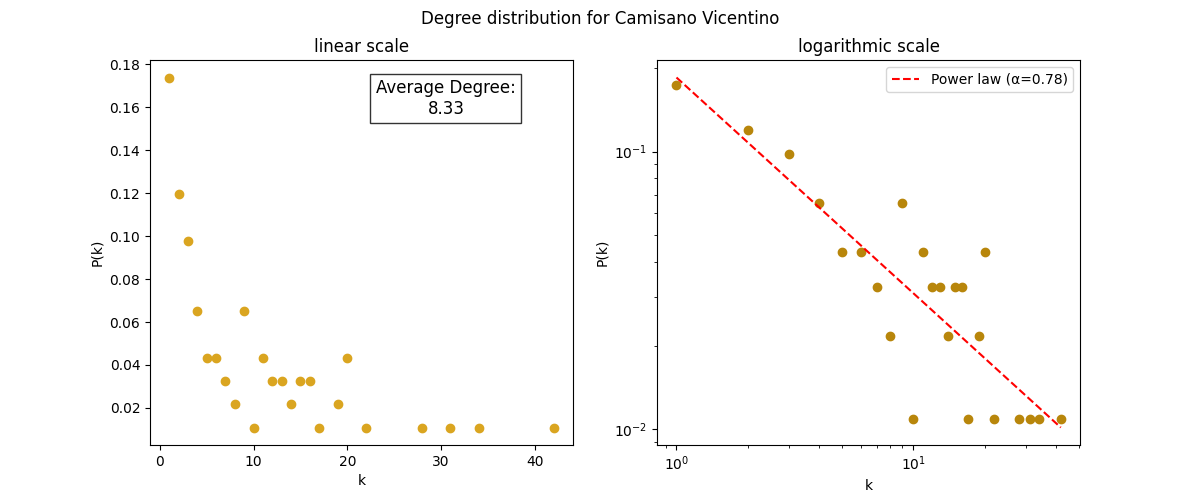
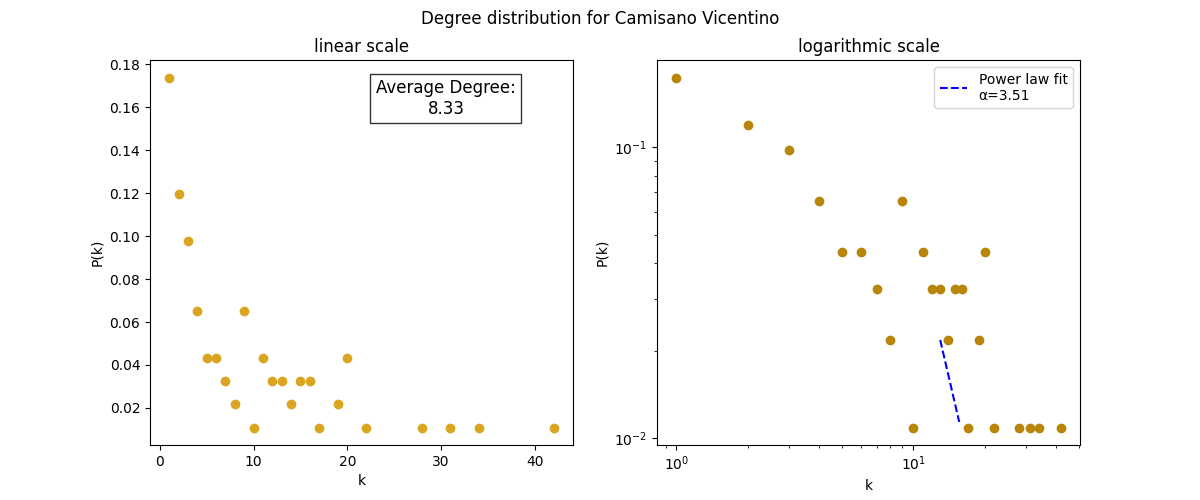
graphs and powerlaw attempt

diff --git a/CSV Data Files/generate_graphs.py b/CSV Data Files/generate_graphs.py
@@ -1,6 +1,7 @@
 import matplotlib.pyplot as plt
 import pandas as pd
 import numpy as np
+import powerlaw
 from scipy.stats import linregress
 from os import listdir
 
@@ -138,26 +139,28 @@ def generate_degree_distribution_graphs(df, locality):
 
     degrees = list(degree_distribution.keys())
     deg_counts = list(degree_distribution.values())
-    deg_counts = [x/n_nodes for x in deg_counts]
+    deg_probabilities = [x/n_nodes for x in deg_counts]
+    degrees_repeated = [k for k, v in degree_distribution.items() for _ in range(int(v))]
 
     degrees = np.array(degrees)
-    deg_counts = np.array(deg_counts)
+    deg_probabilities = np.array(deg_probabilities)
 
-    mask = (degrees > 0) & (deg_counts > 0)
-    log_k = np.log(degrees[mask])
-    log_pk = np.log(deg_counts[mask])
+    fit = powerlaw.Fit(degrees_repeated, discrete=True)
 
-    slope, intercept, r_value, p_value, std_err = linregress(log_k, log_pk)
-    alpha = -slope
+    x_fit = np.linspace(fit.xmin, max(degrees), 100)
+    y_fit = x_fit ** (-fit.alpha)
+    y_fit = y_fit / y_fit[0] * deg_probabilities[degrees >= fit.xmin][0]  # scale roughly to match
 
-    x_fit = np.linspace(min(degrees[mask]), max(degrees[mask]), 100)
-    y_fit = np.exp(intercept) * x_fit**slope
+    y_min = deg_probabilities.min()
+    mask = y_fit >= y_min
+    x_fit = x_fit[mask]
+    y_fit = y_fit[mask]
 
 
     fig,axes = plt.subplots(1,2,figsize=(12,5))
-    axes[0].plot(degrees, deg_counts, marker="o", linestyle="", color="goldenrod")
-    axes[1].plot(degrees, deg_counts, marker="o", linestyle="", color="darkgoldenrod")
-    axes[1].plot(x_fit, y_fit, color="red", linestyle="--", label=f"Power law (α={alpha:.2f})")
+    axes[0].plot(degrees, deg_probabilities, marker="o", linestyle="", color="goldenrod")
+    axes[1].plot(degrees, deg_probabilities, marker="o", linestyle="", color="darkgoldenrod")
+    axes[1].plot(x_fit, y_fit, linestyle='--', color='b', label=f'Power law fit\nα={fit.power_law.alpha:,.02f}'.replace(","," "))
     axes[1].legend()
 
 
@@ -190,25 +193,29 @@ def generate_degree_distribution_graphs(df, locality):
 
     interactions = list(weighted_degree_distribution.keys())
     interaction_counts = list(weighted_degree_distribution.values())
-    interaction_counts = [x/n_nodes for x in interaction_counts]
+    interaction_probabilities = [x/n_nodes for x in interaction_counts]
+    interactions_repeated = [k for k, v in weighted_degree_distribution.items() for _ in range(int(v))]
 
     interactions = np.array(interactions)
-    interaction_counts = np.array(interaction_counts)
+    interaction_probabilities = np.array(interaction_probabilities)
 
-    mask = (interactions > 0) & (interaction_counts > 0)
-    log_k = np.log(interactions[mask])
-    log_pk = np.log(interaction_counts[mask])
+    fit = powerlaw.Fit(interactions_repeated, discrete=True)
 
-    slope, intercept, r_value, p_value, std_err = linregress(log_k, log_pk)
-    alpha = -slope
+    x_fit = np.linspace(fit.xmin, max(interactions), 100)
+    y_fit = x_fit ** (-fit.alpha)
+    y_fit = y_fit / y_fit[0] * interaction_probabilities[interactions >= fit.xmin][0]  # scale roughly to match
 
-    x_fit = np.linspace(min(interactions[mask]), max(interactions[mask]), 100)
-    y_fit = np.exp(intercept) * x_fit**slope
+    y_min = interaction_probabilities.min()
+    mask = y_fit >= y_min
+    x_fit = x_fit[mask]
+    y_fit = y_fit[mask]
+
+
 
     fig,axes = plt.subplots(1,2,figsize=(12,5))
-    axes[0].plot(interactions, interaction_counts, marker="o", linestyle="", color="olive")
-    axes[1].plot(interactions, interaction_counts, marker="o", linestyle="", color="olivedrab")
-    axes[1].plot(x_fit, y_fit, color="red", linestyle="--", label=f"Power law (α={alpha:.2f})")
+    axes[0].plot(interactions, interaction_probabilities, marker="o", linestyle="", color="olive")
+    axes[1].plot(interactions, interaction_probabilities, marker="o", linestyle="", color="olivedrab")
+    axes[1].plot(x_fit, y_fit, linestyle='--', color='b', label=f'Power law fit\nα={fit.power_law.alpha:,.02f}'.replace(","," "))
     axes[1].legend()
     
     # Add labels and title
